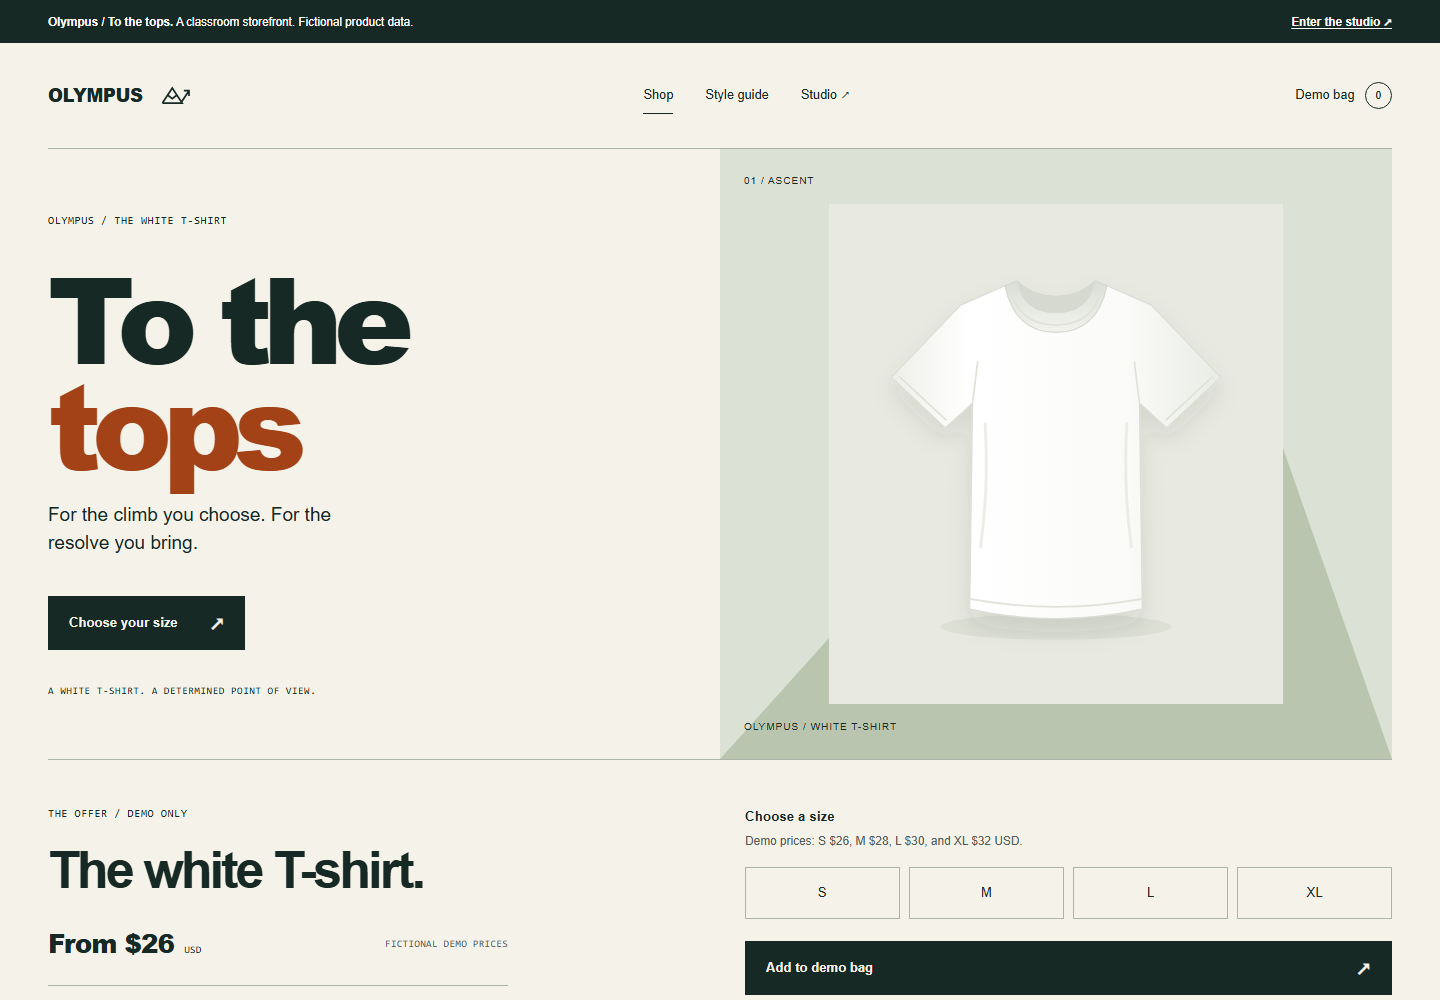
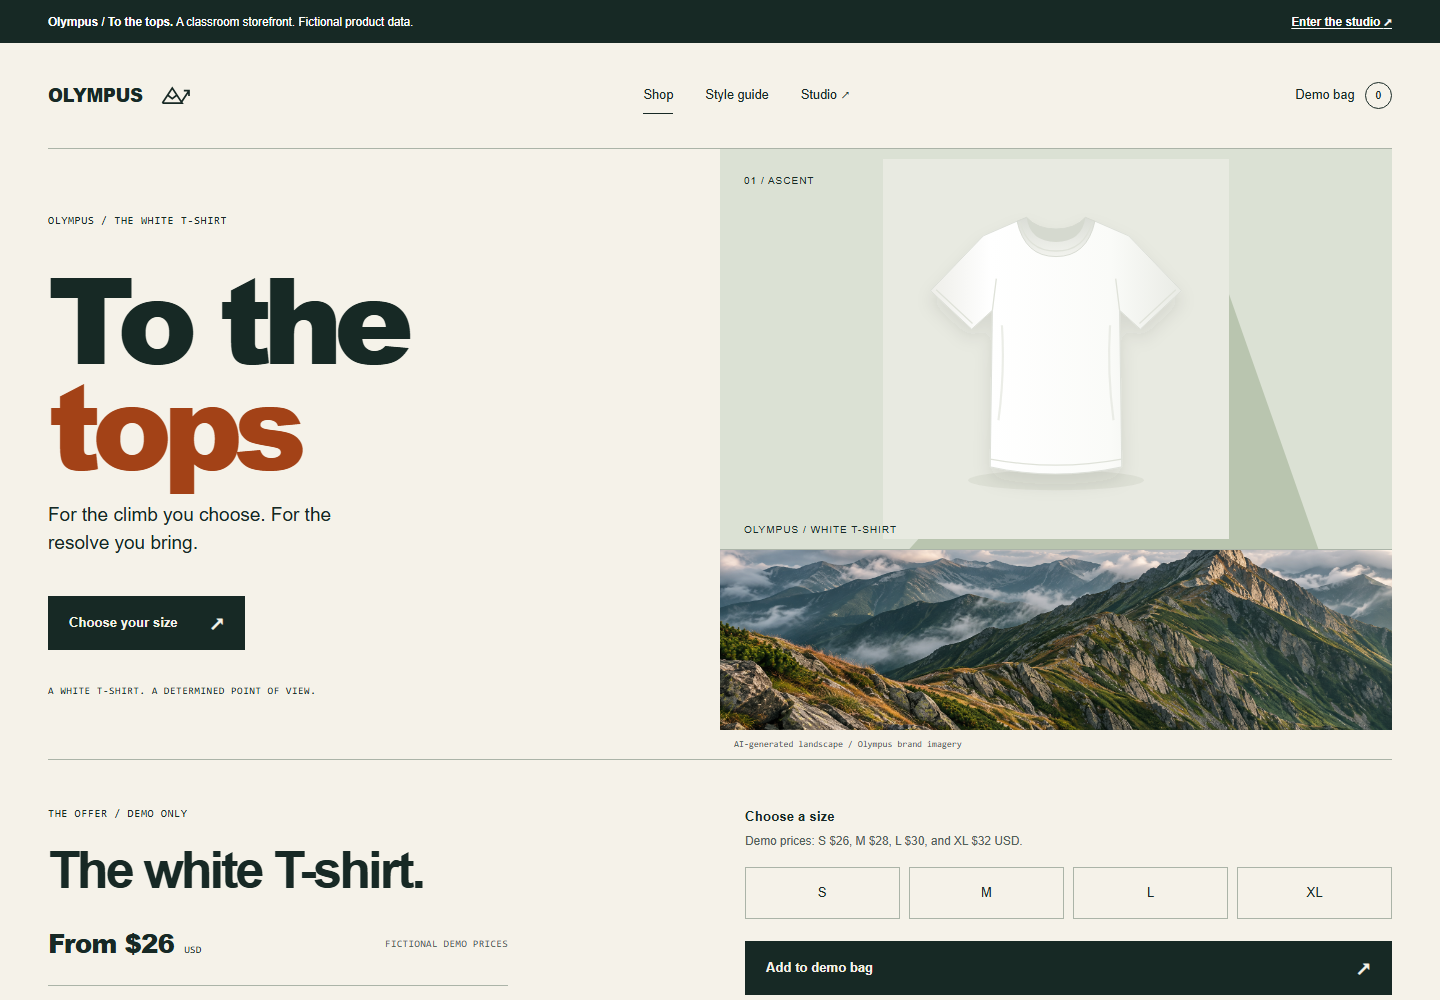
Add mountain landscape to modernist hero and style guide

Changed region(s): [[0.5, 0.217, 0.9688, 0.775]]

diff --git a/public/styleguide.html b/public/styleguide.html
@@ -63,7 +63,8 @@
         ><a class="section-link" href="#spacing">04 Space</a
         ><a class="section-link" href="#buttons">05 Buttons</a
         ><a class="section-link" href="#voice">06 Voice</a
-        ><a class="section-link" href="#persuasion">07 Persuasion plan</a>
+        ><a class="section-link" href="#persuasion">07 Persuasion plan</a
+        ><a class="section-link" href="#imagery">08 Imagery</a>
       </nav>
 
       <section
@@ -466,6 +467,37 @@
             reviews, scarcity, credentials or product-performance facts are
             supplied.
           </p>
+        </div>
+      </section>
+      <section
+        id="imagery"
+        class="guide-section wrap"
+        aria-labelledby="imagery-title"
+      >
+        <div class="section-heading">
+          <span class="section-number">08 / Imagery</span>
+          <h2 id="imagery-title">A sense<br />of ascent.</h2>
+          <p>
+            A diagonal ridge and restrained natural color support the modernist
+            direction.
+          </p>
+        </div>
+        <div class="guide-content">
+          <figure class="landscape-sample">
+            <img
+              src="assets/mountain-ridge.png"
+              alt="A sunlit rocky summit above layered alpine ridges and drifting cloud"
+              width="2172"
+              height="724"
+              loading="lazy"
+            />
+            <figcaption class="guide-note">
+              AI-generated alpine landscape, shared with the storefront. Mood
+              imagery only: not a named location, customer expedition or
+              evidence of product testing. Keep the summit visible when
+              cropping.
+            </figcaption>
+          </figure>
         </div>
       </section>
       <div class="guide-footer-note wrap">

diff --git a/public/styles.css b/public/styles.css
@@ -1335,6 +1335,7 @@ h1 em,
 }
 
 .olympus-art {
+  grid-template-rows: minmax(0, 1fr) auto;
   position: relative;
   overflow: hidden;
   background: var(--color-soft);
@@ -1353,7 +1354,7 @@ h1 em,
 .olympus-art .shirt-image {
   position: relative;
   width: 85%;
-  height: 500px;
+  height: 380px;
   z-index: 1;
   object-fit: contain;
 }
@@ -1372,7 +1373,7 @@ h1 em,
 }
 
 .olympus-caption {
-  bottom: 24px;
+  bottom: 221px;
 }
 
 .olympus-product {
@@ -1419,7 +1420,7 @@ h1 em,
   }
 
   .olympus-art .shirt-image {
-    height: 350px;
+    height: 320px;
   }
 
   .olympus-product {
@@ -1458,5 +1459,54 @@ h1 em,
     grid-template-columns: 1fr;
     gap: 1.5rem;
     padding-block: 2rem;
+  }
+}
+
+/* Mountain imagery fills the selected modernist hero's lower image panel. */
+.olympus-landscape {
+  position: relative;
+  z-index: 2;
+  width: 100%;
+  margin: 0;
+  align-self: end;
+  border-top: 1px solid var(--color-line);
+}
+
+.olympus-landscape img {
+  width: 100%;
+  height: 180px;
+  object-fit: cover;
+  object-position: 65% 45%;
+}
+
+.olympus-landscape figcaption {
+  padding: 8px 14px;
+  background: var(--color-paper);
+  color: var(--color-muted);
+  font-family: var(--font-mono);
+  font-size: 9px;
+  line-height: 1.5;
+}
+
+.landscape-sample {
+  margin: 0;
+}
+
+.landscape-sample img {
+  width: 100%;
+  height: auto;
+}
+
+.landscape-sample figcaption {
+  margin-top: 1rem;
+}
+
+@media (width <= 760px) {
+  .olympus-landscape img {
+    height: 150px;
+  }
+
+  .olympus-caption {
+    bottom: 191px;
   }
 }

diff --git a/public/index.html b/public/index.html
@@ -73,6 +73,17 @@
             height="880"
             fetchpriority="high"
           /><span class="olympus-caption">OLYMPUS / WHITE T-SHIRT</span>
+          <figure class="olympus-landscape">
+            <img
+              src="assets/mountain-ridge.png"
+              alt="A sunlit rocky summit above layered alpine ridges and drifting cloud"
+              width="2172"
+              height="724"
+            />
+            <figcaption>
+              AI-generated landscape / Olympus brand imagery
+            </figcaption>
+          </figure>
         </div>
       </section>
       <section class="olympus-product wrap" aria-labelledby="offer-title">

diff --git a/SPEC.md b/SPEC.md
@@ -47,6 +47,8 @@ Provisional AI voice proposal: bold, determined, encouraging; not explicitly app
 
 ## Visual decision
 
+Modernist refinement requested by learner: add mountain imagery to fill open space. Shared asset `public/assets/mountain-ridge.png` appears below the shirt in the storefront hero and in style-guide section 08. AI-generated landscape; no named location or product-test claim. Postmodernist branch unchanged.
+
 Learner product goal: strong and durable across repeated mountain climbs, including rough conditions. This is an unverified aspiration, not an established product fact or approved performance claim.
 
 Compare two small hero previews before building the whole page. Hold the product, headline, supporting copy, and action identical. Use specific real design references and annotate visual choices, intended effect, and risk.
